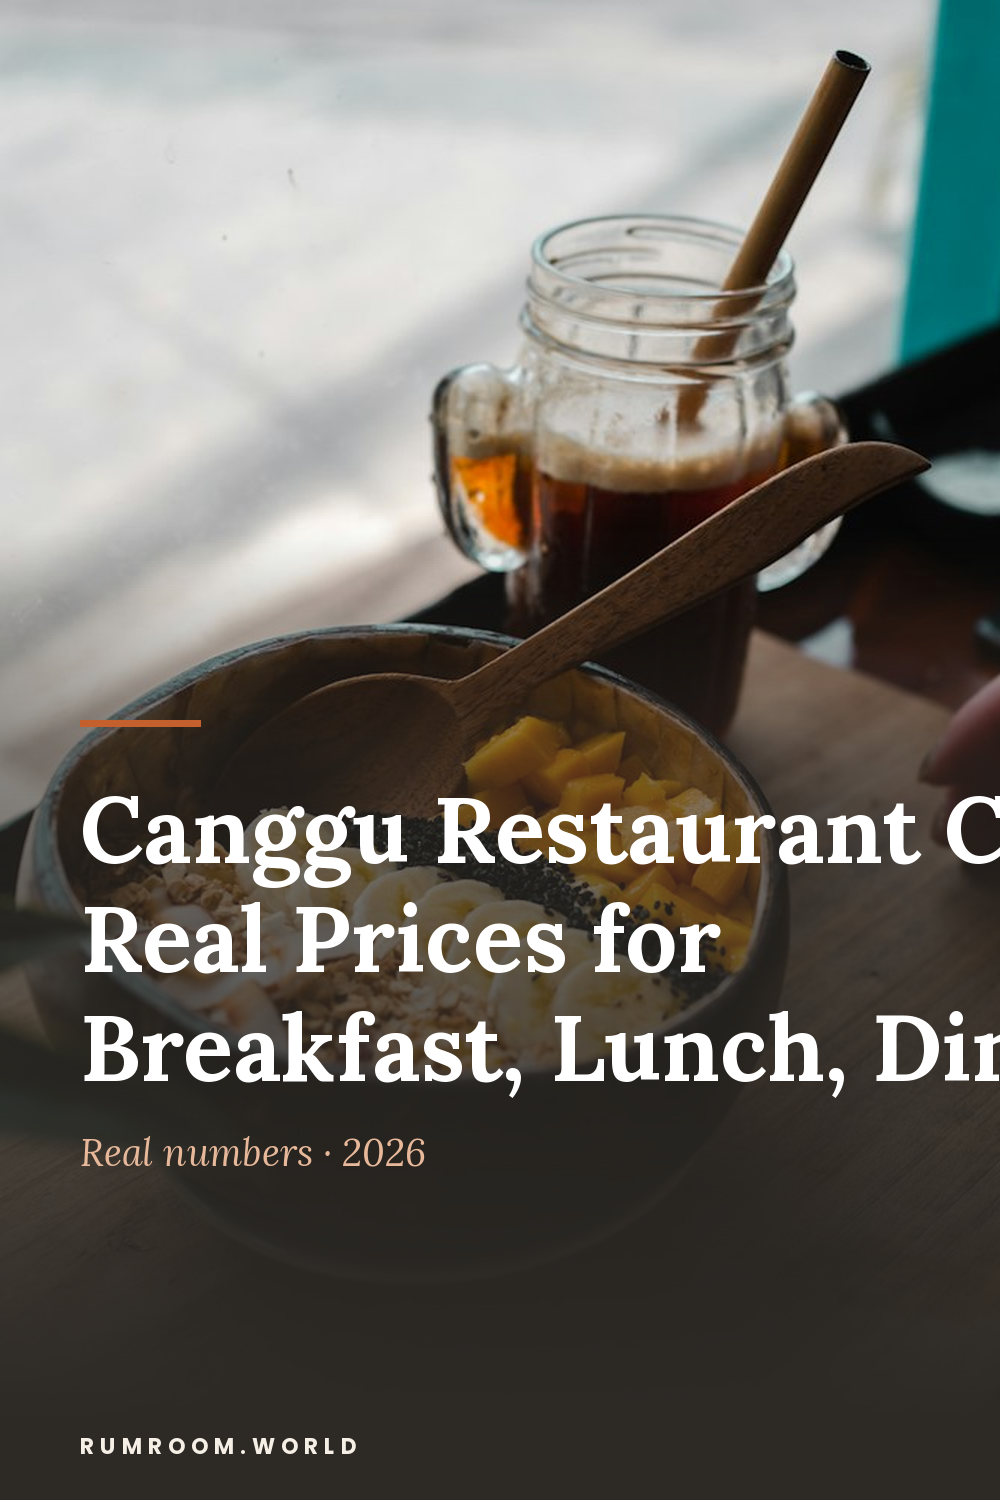
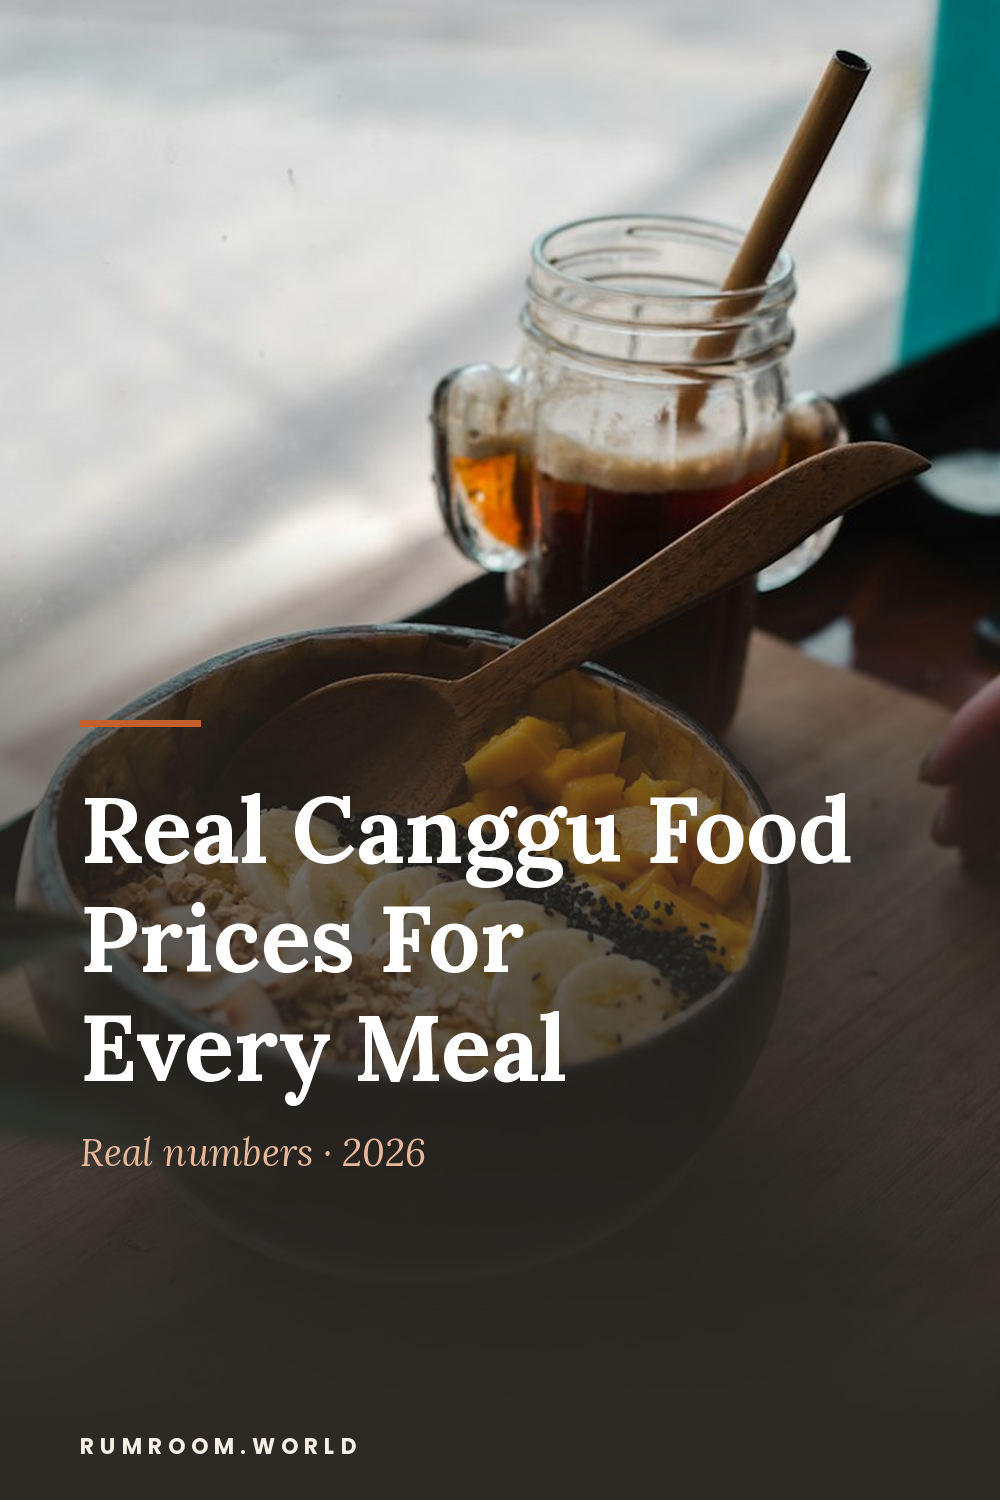
Auto-publish: surf-guide-beginners (weekly-content-draft)

Changed region(s): [[0.062, 0.5213, 1.0, 0.736]]

diff --git a/src/content/posts/bali/surf-guide-beginners.md b/src/content/posts/bali/surf-guide-beginners.md
@@ -1,0 +1,275 @@
+---
+title: "Bali Surf Guide for Beginners: Where to Learn & What It Costs (2026)"
+slug: surf-guide-beginners
+pubDate: 2026-05-26
+updatedDate: 2026-05-26
+author: kseniia
+readingTime: 12
+description: "Honest beginner surf guide for Bali. Best beaches by skill level, what lessons actually cost ($15-50/hr), board rental realities, and which spots will kill you on day one."
+heroImage: "https://images.unsplash.com/photo-1591192626617-f9c691fa8df4?w=1500&q=80&fm=jpg&auto=format,compress"
+heroImageAlt: "Green rice fields near trees in Bali"
+heroImageCredit:
+  photographer: "Carles Rabada"
+  profileUrl: "https://unsplash.com/@carlesrgm"
+  photoUrl: "https://unsplash.com/photos/green-grass-field-near-green-trees-during-daytime-F0f6CNjVn_o"
+primaryKeyword: bali surfing for beginners
+secondaryKeywords:
+  - best surf spot bali beginners
+  - surf lessons bali price
+  - bali surf school
+  - where to learn surf bali
+  - beginner surf canggu
+cluster: bali/activities
+affiliates:
+  - safetywing
+  - booking
+---
+
+Bali is the cheapest place on Earth to learn to surf. A two-hour lesson costs $15–30. A foamboard rental is $3–4/hour. You can eat for $6 and sleep for $10 and spend the whole day in the water. But here's the trap: pick the wrong beach, and one wave will scare you so badly you'll never come back.
+
+I've watched beginners paddle out at Padang Padang (a reef break that eats people) thinking they're in a "beginner spot" because some outdated blog said so. They're too intimidated to even pop up. Meanwhile, fifteen minutes down the coast at Old Man's in Canggu, there's a beach with soft sand, small waves, and instructors literally *waiting* for you to fail safely.
+
+This guide cuts through the noise. Here's where to actually learn, what it costs, which beaches will destroy your confidence (and your face), and what I wish someone had told me before my first $40 disaster.
+
+---
+
+## Beginner-Friendly Spots: Your Real Options
+
+### Old Man's Beach (Canggu) — The Default Pick
+
+**Wave height:** 2–4 ft (mellow, rolling, forgiving)  
+**Crowd:** Packed with tourists and instructors, but beginner-friendly  
+**Bottom:** Sandy, no reef, soft landing  
+**Best window:** 7–9 AM (glassy, fewer crowds)
+
+This is the go-to for a reason. Soft sand beach, no sharp rocks, consistent rolling waves that are *designed* for learning. The break is long and lazy—you've got time to figure out which way to turn.
+
+**Quick tip:** Arrive by 6:30 AM if you want a lesson without a 30-minute wait. After 8 AM, instructors are booked solid.
+
+---
+
+### Batu Bolong (Canggu) — The Quieter Alternative
+
+**Wave height:** 2–3 ft (smaller than Old Man's, slower peeling)  
+**Crowd:** Half the tourists, same quality instruction  
+**Bottom:** Sandy with some rocks at high tide  
+**Best window:** 7–10 AM
+
+Same area as Old Man's, fifteen-minute walk around the point, but feels less chaotic. Waves peel off more slowly, which means more time for you to pop up, more time to figure out your balance before the white water dumps you.
+
+I actually preferred Batu Bolong on my second day. Less ego-bruising, same learning curve.
+
+---
+
+### Kuta Beach — The Tourist Machine
+
+**Wave height:** 2–4 ft (variable, depends on swell)  
+**Crowd:** Absolutely rammed with beginners, tourists, and jet skis  
+**Bottom:** Sandy, lifeguards on duty  
+**Best window:** 6–7:30 AM (before the chaos)
+
+Kuta is *famous*, which means expensive lessons, crowded lineups, and that weird energy when everyone's trying to be in the same Instagram photo. But it works for learning. The waves are soft, the beach is wide, and if you wipe out, you're landing in soft sand with an audience of 200 people (which is either motivating or mortifying, depending on your personality).
+
+**Real take:** Kuta is safe for beginners but touristy. You'll spend $20–30/hour for a lesson that costs $15 at Old Man's, just because the beachfront is premium real estate. Skip it unless you're committed to the Instagram energy.
+
+---
+
+### Medewi Beach — The Local Secret
+
+**Wave height:** 2–5 ft (mellow left-hander, works all day)  
+**Crowd:** Mostly locals and committed learners, few tourists  
+**Bottom:** Sandy / pebbles, long point break  
+**Best window:** 6 AM–12 PM  
+**Drive time:** 1.5 hours from Canggu (northwest coast)
+
+This is my honest pick for a full day of learning. Long peeling left-hander that rolls in *slowly*. Beginners actually get time to think between waves instead of being dumped every 20 seconds. Half-hour lessons here are ($20–25/hr)—cheaper than Canggu, fewer tourists, actual vibe.
+
+The catch: the drive is brutal if you don't have a scooter. But if you rent a bike and make a day of it, Medewi is worth it.
+
+---
+
+## Beaches to Skip Completely (Seriously)
+
+### Padang Padang — Reef + Shallow Water + Riptide
+
+Gorgeous cliffside views. Absolutely wrong for beginners. Reef break means you hit sharp coral if you fall. Shallow water means you can't actually learn—you're either standing up or panicking. Strong riptide = current pushing you away from shore while you're exhausted.
+
+I've seen people get cut on the reef and spend the next week avoiding the ocean entirely. Not worth it.
+
+---
+
+### Uluwatu — Advanced Only
+
+Temple vibes, incredible scenery, waves that are *way* too big and powerful for day-one surfers. Cliff break, strong currents, sharp reef. People drown here. Not metaphorical—actual death risk.
+
+---
+
+### Bingin Beach — Crowded Rocks + Localism
+
+Steep beach packed with rocks and breakwalls. Beginner surfers get picked off in the shallows. Local surfers get territorial when tourists show up flailing on foamboards. The vibe is hostile.
+
+---
+
+### Keramas — Reef Break, Far East, Inconsistent
+
+Way out east past Sanur. Reef break (cuts on wipeouts), unreliable swell, and lessons are hard to find. Beginners end up fighting to get back to shore while their instructor is somewhere else.
+
+---
+
+## Lesson Costs & What You Actually Get
+
+**Solo lessons:** $30–50/hour. One-on-one instruction, customized to you.
+
+**Group lessons:** $15–25/hour (4–6 people per instructor). Cheaper but the instructor divides attention. You get less feedback.
+
+**Package deals:** 5 lessons = $80–150 (rough $16–30/hour). Best value if you're committing to a week.
+
+**What's included:** Usually an hour in the water, maybe 10–15 minutes of land instruction (how to pop up, where to position yourself). Some schools add wetsuits. Most don't include board rental.
+
+---
+
+### Three Schools Worth Booking With
+
+**Bali Green Surf** (Canggu, Old Man's Beach)  
+$30–40/hr for solo, $18–22/hr for group. Instructors are patient, boards are maintained, they actually care if you're safe. Book through their Instagram or the beach kiosk. Wait time: 15–20 mins even at peak.
+
+**Pro Surf Bali** (Canggu, Batu Bolong)  
+$25–35/hr solo, $15–20/hr group. More casual vibe, local instructors, good mix of tourists and a few locals actually working on technique. They'll push you harder if you want it.
+
+**Endless Summer Surf School** (Medewi)  
+$20–30/hr, longer sessions (often 90 minutes). Less polished than Canggu schools but genuinely thoughtful instruction. Smaller groups. Takes 1.5 hours to get there but worth it if you want an actual learning environment vs. a tourist factory.
+
+**Real take:** Don't overthink which school. Pick the beach you prefer, show up early, and book whoever's available. Instruction quality is pretty consistent. What matters is *you*, not the logo on the board.
+
+---
+
+## Board Rental: What to Expect
+
+**Foamboard (soft-top):** 50,000–80,000 IDR/hour ($3–5). Beginner-friendly, can't break them, perfect for day-one.
+
+**Shortboard:** 80,000–150,000 IDR/hour ($5–10). For after you can stand up and turn.
+
+**Full-day rental:** 200,000–400,000 IDR ($13–27). Usually cheaper per hour than hourly if you're out 6+ hours.
+
+**Deposit:** 500,000–2,000,000 IDR ($30–130) cash. You get it back when you return the board undamaged. Non-negotiable.
+
+**Quick tip:** Rent from the instructors' partners, not random beach kiosks. Beach kiosks will jam you into a board that's too big or too heavy. Instructors rent properly-sized boards.
+
+---
+
+## What to Bring (Non-Negotiable)
+
+**Rash guard** — Sun in Bali will burn you in 45 minutes. Rashguard stops that and stops the board from shredding your ribs. $15–20 at any shop in Canggu.
+
+**Reef-safe sunscreen** — If you're at all worried about sun, slather it on. But avoid sunscreen with oxybenzone/octinoxate (kills coral). Reef-safe brands: Badger, Stream2Sea, Blue Lizard.
+
+**Water bottle** — Bring 1.5L. You're in the sun, you're exerting yourself, you will dehydrate. Cost of not bringing one: nausea, headache, cramps in the water.
+
+**Board shorts or swim trunks** — Snug fit. Regular shorts will slide off when you're paddling or falling. Cheap ($12–15) and essential.
+
+**Waterproof phone case** — Optional but useful if you want to film yourself or use a GPS watch.
+
+---
+
+## Timing: When to Paddle Out
+
+**7–9 AM is *the* window.** Waves are still small, the water is glassy (no wind), and there are fewer tourists. You'll catch more waves, have clearer conditions, and actually progress.
+
+**9–11 AM:** Crowds arrive, wind picks up a little, but still learnable. Expect to share the break with 50+ other beginners.
+
+**11 AM–3 PM:** Skip it. Sun is brutal, wind is choppy, the break is packed, and heat exhaustion is real. Go eat, nap, come back at 5 PM if you want an evening session.
+
+**3–5 PM:** Wind dying down, waves often cleaner than morning (more swell has arrived), fewer tourists. Good time if you can't do early morning.
+
+**After 5 PM:** Sunset is pretty but the water is dark, instructors are tired, and visibility sucks. Skip unless you're chasing the Insta moment.
+
+---
+
+## Realistic Timeline: What Progression Actually Looks Like
+
+**Day 1 (first lesson):** You're going to pop up, maybe stay up for 2–3 seconds, feel incredible, fall about 200 times, and be completely exhausted after 2 hours. You'll sleep hard that night. You'll have a bruise on your ribs from the board. This is normal.
+
+**Week 1 (3–4 lessons):** You can pop up reliably now (maybe 70% of attempts). You can go *somewhat* straight. Turning is still a mystery. You're catching white water consistently, which means you're actually surfing now, not just falling.
+
+**Week 2 (add 2 more lessons):** You can angle take-off slightly. You can turn on a green wave (not just the white water). You're starting to feel the board under your feet instead of just fighting it. Expect 5–10 solid rides per hour, mixed with wipeouts.
+
+**Week 3–4:** You can catch unbroken waves now. The learning curve drops—you plateau a bit while your body catches up to what your brain understands. Don't get discouraged.
+
+**Month 2:** You're a *real* surfer now. You understand when to paddle, how to pop up consistently, how to ride the face, and how to bail without eating board. You're going out alone without an instructor.
+
+---
+
+## Travel Insurance & Safety
+
+Most travel insurance policies either **exclude surfing entirely** or **limit it at wave height 6+ feet**. [SafetyWing](https://safetywing.com/?referenceID=26521603&utm_source=26521603&utm_medium=Ambassador) covers personal use surfing (lessons, casual session, not competitions) at roughly $45/month for under-40.
+
+**Check policy details—most plans cover personal use but not racing or competitions.** I checked SafetyWing's language directly: surfing is covered as a leisure activity. But read yours.
+
+**What SafetyWing doesn't cover:** professional competitions, tow-in surfing, anything requiring rescue. You're learning in small waves, you're covered. You're safe.
+
+---
+
+## Real Talk: What I Wish Someone Had Told Me
+
+My first lesson cost $40 at a random beach kiosk. The "instructor" barely spoke English, rented me a shortboard (way too advanced), and spent most of the hour yelling. I fell maybe 60 times, got cut on a rock, was more embarrassed than anything.
+
+What I wish happened: someone told me to go to Old Man's Beach instead, where lessons are $25 and instructors actually *want* you to learn. I would've caught more waves, felt less alone, and spent less money.
+
+**My honest take:** Pick the beach first (Old Man's or Batu Bolong). Book a school lesson second, not a random instructor. Bring a rash guard and water bottle. Expect to be sore and tired and to fall constantly—that's exactly right. The people who quit surfing are the ones who pick the hard beach, the mediocre instructor, and the wrong gear. Don't be that person.
+
+Come back after Week 1 and tell me how many waves you caught.
+
+---
+
+## Planning Your Surf Week
+
+**Where to stay:** [Booking.com](https://www.booking.com/searchresults.html?ss=Canggu) has Canggu listings within walking distance of Old Man's and Batu Bolong. Budget $20–30/night for clean, safe guesthouses.
+
+**How many lessons:** I recommend 4–5 lessons in your first week (one per day, skip one rest day). That's $100–150 total for group lessons. Then switch to self-practice for the second week once you've got the basics.
+
+**Gear cost:** Rash guard ($15), board shorts ($12), sunscreen ($10), water bottle ($5), foamboard rental ($20–25/day). Total first week: $60–70 on gear, $100–150 on lessons = $160–220 to learn to surf.
+
+**Food & lodging:** See my [Canggu Cafes guide](/bali/canggu-cafes/) and [Where to Stay in Bali](/bali/where-to-stay/) for budget estimates.
+
+---
+
+## FAQ
+
+**Q: Can I teach myself without a lesson?**  
+A: No. You'll waste time paddling, never figure out how to pop up correctly, and probably get hurt. One lesson saves you a week of frustration.
+
+**Q: What if I'm afraid of the ocean?**  
+A: Start with Batu Bolong. Smaller waves, slower pace, softer landing. The fear goes away after 20 minutes in the water.
+
+**Q: Will I be sore?**  
+A: Yes. Expect chest, shoulders, and ribs to hurt for 3–5 days. That's your body adapting. Ice, ibuprofen, and rest help.
+
+**Q: Do I need to be fit?**  
+A: No. You need basic fitness (ability to swim, paddle for 20 mins without stopping). You don't need athlete-level strength.
+
+**Q: Is it safe for solo travelers?**  
+A: Yes. Lessons are group or one-on-one, instructors know CPR, lifeguards are on duty at Kuta and Old Man's. You'll be fine.
+
+**Q: Can women take lessons? (Is it weird?)**  
+A: Of course. 40% of lesson takers are women. No weirdness. Instructors are professionals.
+
+**Q: Best time of year?**  
+A: April–October (dry season). Waves are bigger, wind is lighter, sun is *relentless* but consistent. November–March (wet season) has bigger swells but rain and humidity.
+
+---
+
+## More Bali Resources
+
+- [13 Best Cafes & Restaurants in Canggu (Local's Picks for 2026)](/bali/canggu-cafes/)
+- [Where to Stay in Bali (by vibe)](/bali/where-to-stay/)
+- [Bali for First-Timers: What's Actually Worth Doing](/bali/for-first-timers/)
+- [Bali Cost of Living: What $50/day Actually Buys](/bali/cost-of-living/)
+- [Best Coworking Spaces in Bali](/bali/coworking/)
+
+---
+
+## About Kseniia
+
+I've learned to surf in Bali, got cut on a reef in Indonesia, eaten at a thousand beach cafés, and slept on couches from Chiang Mai to Ho Chi Minh City. rumroom.world is my real-time log of what actually works in Southeast Asia—no affiliate fluff, no "best of" lists designed for clicks, just the lessons I learned doing this.
+
+If you've got questions about learning to surf in Bali or where to go after—email me at hello@rumroom.world.
